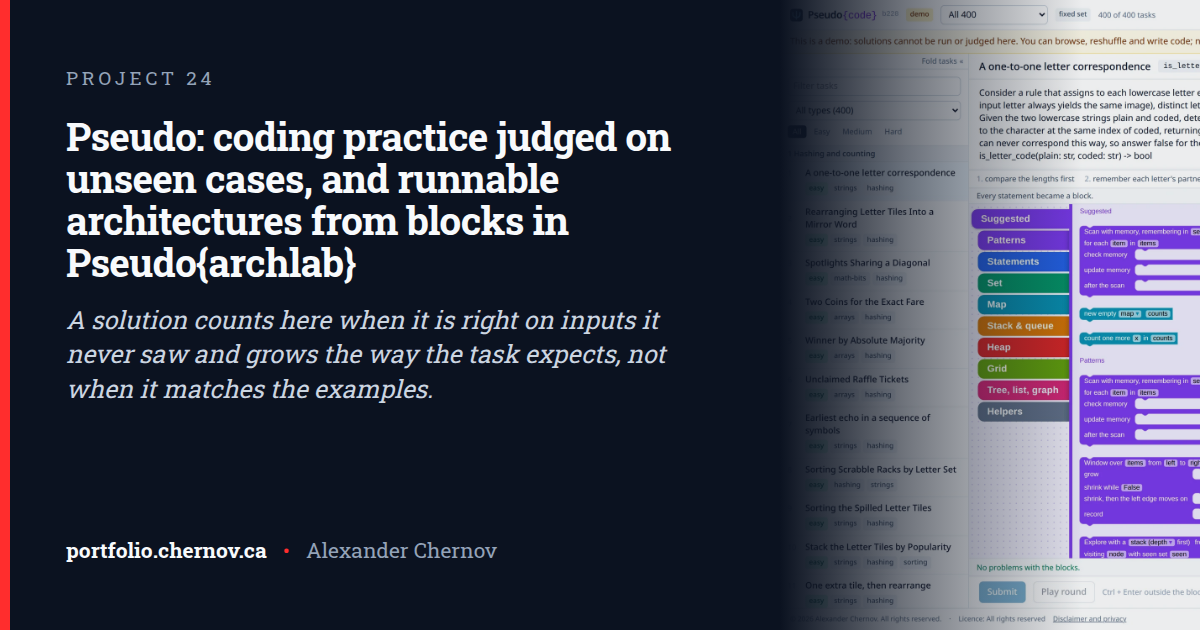
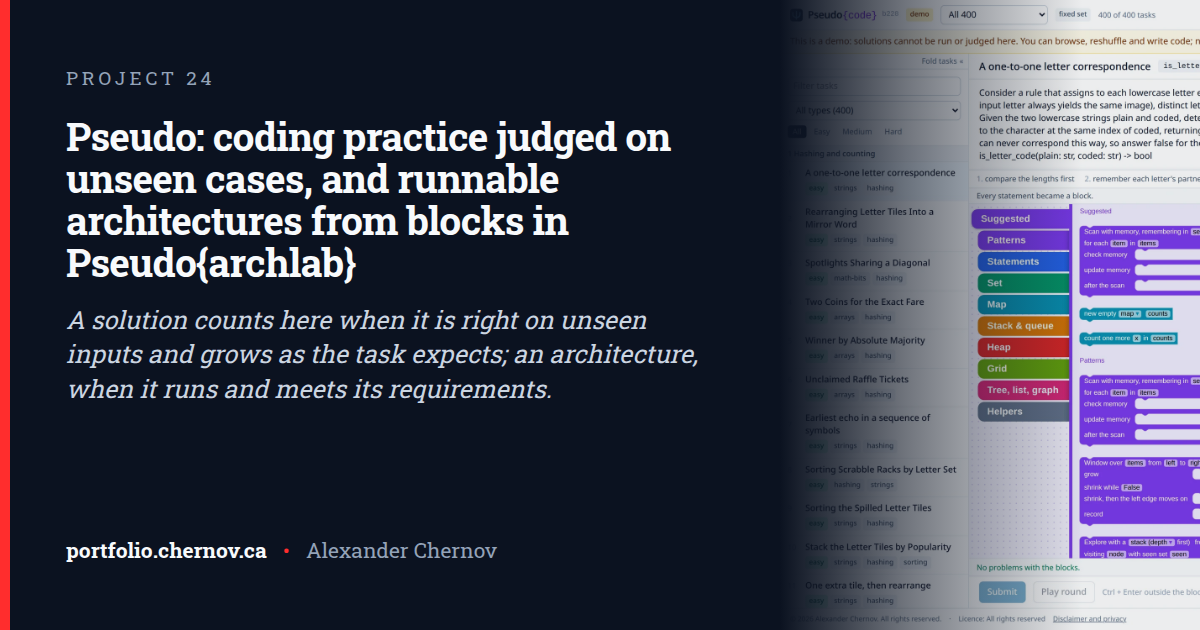
Pseudo (#24) lede covers Pseudo{archlab} too: "A solution counts here when it is right on unseen inputs and grows as the task expects; an architecture, when it runs and meets its requirements." The link-preview card og/pseudo.png re-rendered: the lede fits its three lines. Rendered at 1280 and 390: 

Changed region(s): [[0.0617, 0.4825, 0.5858, 0.6333]]

diff --git a/docs/p/pseudo.html b/docs/p/pseudo.html
@@ -277,7 +277,7 @@ footer.bottom p{margin:0 0 .5rem}
 </div>
 <button class="copy" type="button" data-copy="../p/pseudo.html" aria-label="Copy link to Pseudo: coding practice judged on unseen cases, and runnable architectures from blocks in Pseudo{archlab}" title="Copy link to Pseudo: coding practice judged on unseen cases, and runnable architectures from blocks in Pseudo{archlab}"><span class="copy-icon" aria-hidden="true">#</span><span class="copy-text">Copy link</span></button>
 </div>
-<p class="lede">A solution counts here when it is right on inputs it never saw and grows the way the task expects, not when it matches the examples.</p>
+<p class="lede">A solution counts here when it is right on unseen inputs and grows as the task expects; an architecture, when it runs and meets its requirements.</p>
 <p class="summary">A coding-practice app with 400 tasks in 19 groups, solved in Python or built from blocks that show the Python they make. A public demo lets anyone browse the tasks and write solutions; a judging server runs each submission in a sandbox and scores it against cases it keeps to itself. Beside it, Pseudo{archlab} turns blocks into runnable architectures of agent software and tests them in experiments and assessments.</p>
 <figure><img src="../img/project-pseudo.webp" alt="The public demo at code.pseudo.chernov.ca, task 1 of 400: a solution typed in Python, turned into blocks with one click, and on the right the Python the judge would receive. The demo shows both and runs neither." width="2400" height="1500" loading="lazy" decoding="async">
 <figcaption>The public demo at code.pseudo.chernov.ca, task 1 of 400: a solution typed in Python, turned into blocks with one click, and on the right the Python the judge would receive. The demo shows both and runs neither.</figcaption>

diff --git a/docs/index.html b/docs/index.html
@@ -796,7 +796,7 @@ footer.bottom p{margin:0 0 .5rem}
 </div>
 <button class="copy" type="button" data-copy="p/pseudo.html" aria-label="Copy link to Pseudo: coding practice judged on unseen cases, and runnable architectures from blocks in Pseudo{archlab}" title="Copy link to Pseudo: coding practice judged on unseen cases, and runnable architectures from blocks in Pseudo{archlab}"><span class="copy-icon" aria-hidden="true">#</span><span class="copy-text">Copy link</span></button>
 </div>
-<p class="lede">A solution counts here when it is right on inputs it never saw and grows the way the task expects, not when it matches the examples.</p>
+<p class="lede">A solution counts here when it is right on unseen inputs and grows as the task expects; an architecture, when it runs and meets its requirements.</p>
 <p class="summary">A coding-practice app with 400 tasks in 19 groups, solved in Python or built from blocks that show the Python they make. A public demo lets anyone browse the tasks and write solutions; a judging server runs each submission in a sandbox and scores it against cases it keeps to itself. Beside it, Pseudo{archlab} turns blocks into runnable architectures of agent software and tests them in experiments and assessments.</p>
 <figure><img src="img/project-pseudo.webp" alt="The public demo at code.pseudo.chernov.ca, task 1 of 400: a solution typed in Python, turned into blocks with one click, and on the right the Python the judge would receive. The demo shows both and runs neither." width="2400" height="1500" loading="lazy" decoding="async">
 <figcaption>The public demo at code.pseudo.chernov.ca, task 1 of 400: a solution typed in Python, turned into blocks with one click, and on the right the Python the judge would receive. The demo shows both and runs neither.</figcaption>
